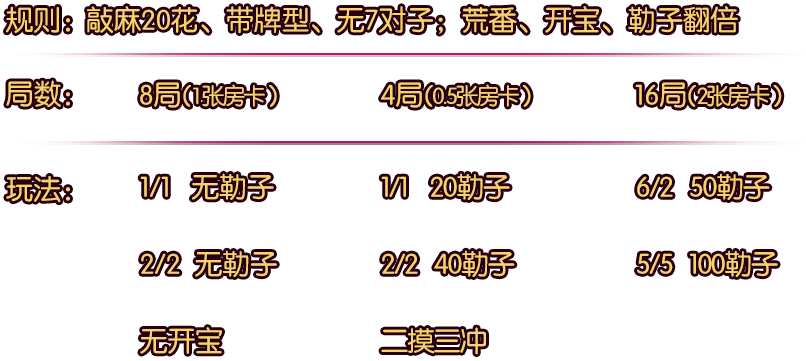
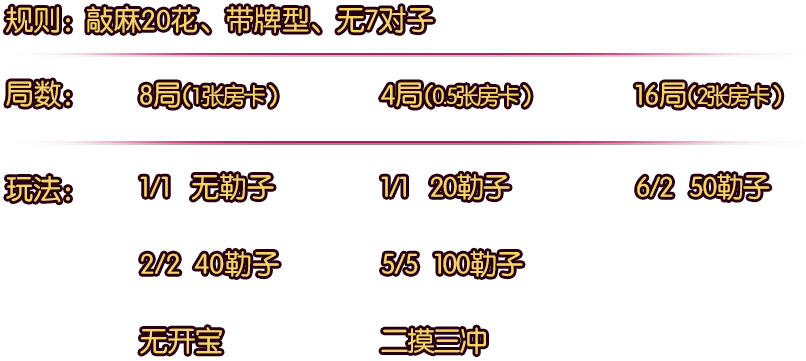
修改

diff --git a/Mahjong/Classes/mahjong/lobby/friend/FriendRoom.cpp b/Mahjong/Classes/mahjong/lobby/friend/FriendRoom.cpp
@@ -124,17 +124,17 @@ bool FriendRoom::init()
     addChild(lezi1150Img);
     
     // 2/2 无勒子
-    auto leziwu22 = MenuItemImage::create("openroom/select_box_normal.png","openroom/select_box_normal.png",CC_CALLBACK_0(FriendRoom::selectLeziType4, this));
-    auto leziwuMenu22 = Menu::create(leziwu22,NULL);
-    leziwuMenu22->setTag(2029);
-    leziwuMenu22->setPosition(458,310);
-    addChild(leziwuMenu22);
-    
-    auto leziwuImg22 = Sprite::create("openroom/icon_right.png");
-    leziwuImg22->setTag(2030);
-    leziwuImg22->setPosition(458,310);
-    leziwuImg22->setVisible(false);
-    addChild(leziwuImg22);
+//    auto leziwu22 = MenuItemImage::create("openroom/select_box_normal.png","openroom/select_box_normal.png",CC_CALLBACK_0(FriendRoom::selectLeziType4, this));
+//    auto leziwuMenu22 = Menu::create(leziwu22,NULL);
+//    leziwuMenu22->setTag(2029);
+//    leziwuMenu22->setPosition(458,310);
+//    addChild(leziwuMenu22);
+//    
+//    auto leziwuImg22 = Sprite::create("openroom/icon_right.png");
+//    leziwuImg22->setTag(2030);
+//    leziwuImg22->setPosition(458,310);
+//    leziwuImg22->setVisible(false);
+//    addChild(leziwuImg22);
     
     
     // 2/2 40勒子
@@ -142,12 +142,12 @@ bool FriendRoom::init()
     auto lezi2240 = MenuItemImage::create("openroom/select_box_normal.png","openroom/select_box_normal.png",CC_CALLBACK_0(FriendRoom::selectLeziType5, this));
     auto lezi2240Menu = Menu::create(lezi2240,NULL);
     lezi2240Menu->setTag(2031);
-    lezi2240Menu->setPosition(695,310);
+    lezi2240Menu->setPosition(458,310);
     addChild(lezi2240Menu);
     
     auto lezi2240Img = Sprite::create("openroom/icon_right.png");
     lezi2240Img->setTag(2032);
-    lezi2240Img->setPosition(695,310);
+    lezi2240Img->setPosition(458,310);
     lezi2240Img->setVisible(false);
     addChild(lezi2240Img);
     
@@ -155,12 +155,12 @@ bool FriendRoom::init()
     auto lezi22100 = MenuItemImage::create("openroom/select_box_normal.png","openroom/select_box_normal.png",CC_CALLBACK_0(FriendRoom::selectLeziType6, this));
     auto lezi22100Menu = Menu::create(lezi22100,NULL);
     lezi22100Menu->setTag(2033);
-    lezi22100Menu->setPosition(950,310);
+    lezi22100Menu->setPosition(695,310);
     addChild(lezi22100Menu);
     
     auto lezi22100Img = Sprite::create("openroom/icon_right.png");
     lezi22100Img->setTag(2034);
-    lezi22100Img->setPosition(950,310);
+    lezi22100Img->setPosition(695,310);
     lezi22100Img->setVisible(false);
     addChild(lezi22100Img);
     
@@ -385,8 +385,8 @@ void FriendRoom::onTouchEnded(Touch *touch, Event  *event){
         getChildByTag(2026)->setVisible(false);
         getChildByTag(2027)->setVisible(true);
         getChildByTag(2028)->setVisible(false);
-        getChildByTag(2029)->setVisible(true);
-        getChildByTag(2030)->setVisible(false);
+//        getChildByTag(2029)->setVisible(true);
+//        getChildByTag(2030)->setVisible(false);
         getChildByTag(2031)->setVisible(true);
         getChildByTag(2032)->setVisible(false);
         getChildByTag(2033)->setVisible(true);
@@ -421,8 +421,8 @@ void FriendRoom::onTouchEnded(Touch *touch, Event  *event){
         getChildByTag(2026)->setVisible(false);
         getChildByTag(2027)->setVisible(false);
         getChildByTag(2028)->setVisible(false);
-        getChildByTag(2029)->setVisible(false);
-        getChildByTag(2030)->setVisible(false);
+//        getChildByTag(2029)->setVisible(false);
+//        getChildByTag(2030)->setVisible(false);
         getChildByTag(2031)->setVisible(false);
         getChildByTag(2032)->setVisible(false);
         getChildByTag(2033)->setVisible(false);
@@ -469,9 +469,11 @@ void FriendRoom::openRoom(){
             iflezi = LeziType::type1120;
         }else if(NULL != getChildByTag(2028)&&getChildByTag(2028)->isVisible()){
             iflezi = LeziType::type1150;
-        }else if(NULL != getChildByTag(2030)&&getChildByTag(2030)->isVisible()){
-            iflezi = LeziType::type2200;
-        }else if(NULL != getChildByTag(2032)&&getChildByTag(2032)->isVisible()){
+        }
+//        else if(NULL != getChildByTag(2030)&&getChildByTag(2030)->isVisible()){
+//            iflezi = LeziType::type2200;
+//        }
+        else if(NULL != getChildByTag(2032)&&getChildByTag(2032)->isVisible()){
             iflezi = LeziType::type2240;
         }else if(NULL != getChildByTag(2034)&&getChildByTag(2034)->isVisible()){
             iflezi = LeziType::type22100;
@@ -567,9 +569,9 @@ void FriendRoom::selectLeziType1(){
     if(NULL != getChildByTag(2028)){
         getChildByTag(2028)->setVisible(false);
     }
-    if(NULL != getChildByTag(2030)){
-        getChildByTag(2030)->setVisible(false);
-    }
+//    if(NULL != getChildByTag(2030)){
+//        getChildByTag(2030)->setVisible(false);
+//    }
     if(NULL != getChildByTag(2032)){
         getChildByTag(2032)->setVisible(false);
     }
@@ -588,9 +590,9 @@ void FriendRoom::selectLeziType2(){
     if(NULL != getChildByTag(2028)){
         getChildByTag(2028)->setVisible(false);
     }
-    if(NULL != getChildByTag(2030)){
-        getChildByTag(2030)->setVisible(false);
-    }
+//    if(NULL != getChildByTag(2030)){
+//        getChildByTag(2030)->setVisible(false);
+//    }
     if(NULL != getChildByTag(2032)){
         getChildByTag(2032)->setVisible(false);
     }
@@ -609,9 +611,9 @@ void FriendRoom::selectLeziType3(){
     if(NULL != getChildByTag(2028)){
         getChildByTag(2028)->setVisible(true);
     }
-    if(NULL != getChildByTag(2030)){
-        getChildByTag(2030)->setVisible(false);
-    }
+//    if(NULL != getChildByTag(2030)){
+//        getChildByTag(2030)->setVisible(false);
+//    }
     if(NULL != getChildByTag(2032)){
         getChildByTag(2032)->setVisible(false);
     }
@@ -630,9 +632,9 @@ void FriendRoom::selectLeziType4(){
     if(NULL != getChildByTag(2028)){
         getChildByTag(2028)->setVisible(false);
     }
-    if(NULL != getChildByTag(2030)){
-        getChildByTag(2030)->setVisible(true);
-    }
+//    if(NULL != getChildByTag(2030)){
+//        getChildByTag(2030)->setVisible(true);
+//    }
     if(NULL != getChildByTag(2032)){
         getChildByTag(2032)->setVisible(false);
     }
@@ -651,9 +653,9 @@ void FriendRoom::selectLeziType5(){
     if(NULL != getChildByTag(2028)){
         getChildByTag(2028)->setVisible(false);
     }
-    if(NULL != getChildByTag(2030)){
-        getChildByTag(2030)->setVisible(false);
-    }
+//    if(NULL != getChildByTag(2030)){
+//        getChildByTag(2030)->setVisible(false);
+//    }
     if(NULL != getChildByTag(2032)){
         getChildByTag(2032)->setVisible(true);
     }
@@ -672,9 +674,9 @@ void FriendRoom::selectLeziType6(){
     if(NULL != getChildByTag(2028)){
         getChildByTag(2028)->setVisible(false);
     }
-    if(NULL != getChildByTag(2030)){
-        getChildByTag(2030)->setVisible(false);
-    }
+//    if(NULL != getChildByTag(2030)){
+//        getChildByTag(2030)->setVisible(false);
+//    }
     if(NULL != getChildByTag(2032)){
         getChildByTag(2032)->setVisible(false);
     }
